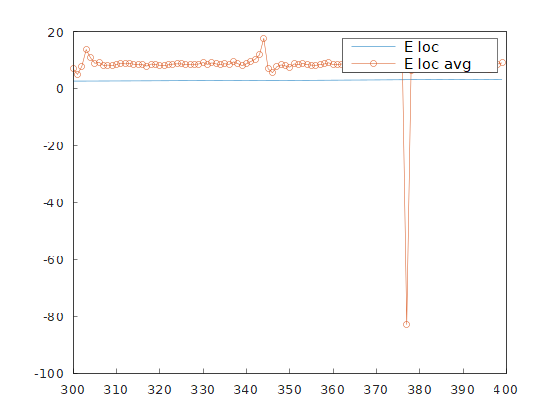
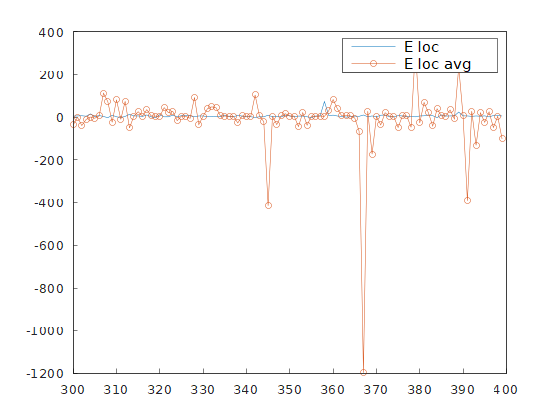
nothign much just random changes

diff --git a/functions/somethingig2.h b/functions/somethingig2.h
@@ -7,6 +7,7 @@
 #include <vector>
 #include <iostream>
 #include <cmath>
+#include <omp.h>
 #include <set>
 #include <complex>
 #include <unordered_map>
@@ -26,7 +27,8 @@ namespace pj
     // defines the paramemeter of the sim
     int col = 1;
     int row = 10;
-    int alpha = 4;
+    int alpha = 2;
+    int hid_node_num = alpha*row;
     long double gama()
     {
         static double gama=1;
@@ -37,13 +39,12 @@ namespace pj
     }
 
     // parameters of the hamil
-    long double h = 1;
+    long double h = 0.5;
     long double j = 1;
     std::random_device rd;
 
     // debuging
     int alpksp = 1;
-    ;
     vector<double> int_n, somevar;
 
     const int dim = pow(2, row);
@@ -54,9 +55,9 @@ namespace pj
         mat b;
         weights()
         {
-            W = arma::randu(alpha, row);
+            W = arma::randu(hid_node_num, row);
             a = arma::randu(row, 1);
-            b = arma::randu(alpha, 1);
+            b = arma::randu(hid_node_num, 1);
         }
         void operator/(double n)
         {
@@ -76,7 +77,7 @@ namespace pj
         void flip(int i)
         {
 
-            S(i % row, 0) = -S(i % row, 0);
+            S(i, 0) = -S(i, 0);
             // std::cout << "flip\n"
             //           << S(i, 0);
         }
@@ -84,7 +85,7 @@ namespace pj
 
     mat theta_matrix(const visible_layer &VL, const weights &w)
     {
-        mat M(alpha, 1);
+        mat M(hid_node_num, 1);
         M = w.b + w.W * VL.S;
         return M;
     }
@@ -127,7 +128,7 @@ namespace pj
         long double cosh_theta = 1;
         mat m = theta_matrix(VL, WEI);
         m.for_each([](auto &m ){m=cosh(m);});
-        for (size_t i = 0; i < alpha; i++)
+        for (size_t i = 0; i < hid_node_num; i++)
         {
             cosh_theta = 2 * cosh_theta * (m(i, 0));
         }
@@ -167,17 +168,15 @@ namespace pj
         visible_layer m = VL;
         for (size_t i = 0; i < row; i++)
         {
-            mat l = m.S;
             m.flip(i);
-            E_loc += VL.S(i % row, 0) * VL.S((i + 1) % row) + h * p_ratio(m, VL, W);
+            E_loc += j*VL.S(i % row, 0) * VL.S((i + 1) % row) + h * p_ratio(m, VL, W);
             m.flip(i);
         }
         bruh(E_loc);
         return E_loc;
     }
 
-    long double E_loc_avg(const visible_layer VL, const weights &W, int itt_no = 1000,
-                          std::random_device &rd = pj::rd)
+    long double E_loc_avg(const visible_layer VL, const weights &W, int itt_no = 1000,std::random_device &rd = pj::rd)
     {
         std::uniform_int_distribution<int> dist_int(0, row - 1);
         std::uniform_real_distribution<long double> dist_real(0, 1);
@@ -206,20 +205,23 @@ namespace pj
         // lamda = (a < pow(10, -4)) ? (pow(10, -4)) : (a);
         mat O, OT_O, OT, O_O, E_OT,
             S, F, a_n, i = arma::eye(row, row);
+
+        visible_layer vl2=vl;
         O = sampler(vl).S.t();               // 1 X row
         OT = sampler(vl).S;                  // row X 1
         O_O = sampler(vl).S;                 // row X 1
         OT_O = (O_O) * (O_O.t());            // row X row
         E_OT = E_loc(vl, w) * sampler(vl).S; // row X 1
-        for (size_t i = 1; i < N; i++)
+        for (size_t j = 1; j < N; j++)
         {
-            O += sampler(vl).S.t();
-            OT += sampler(vl).S;
-            O_O = sampler(vl).S;
+            vl2=sampler(vl2);
+            O += sampler(vl2).S.t();
+            OT += sampler(vl2).S;
+            O_O = sampler(vl2).S;
             OT_O += (O_O) * (O_O.t());
-            E_OT += E_loc(vl, w) * sampler(vl).S;
+            E_OT += E_loc(vl2, w) * sampler(vl2).S;
         }
-        long double e_loc = E_loc_avg(vl, w);
+        long double e_loc = E_loc_avg(vl2, w);
 
         S = (OT_O / N) - ((OT * O / pow(N, 2)));
         S = S - lamda * arma::diagmat(S);
@@ -245,14 +247,15 @@ namespace pj
         visible_layer rough = sampler(vl);
         mat tanh_theta = tanh_matrix(vl, w);
 
-        O = (rough.S * (tanh_theta.t())).t(); // row X 1 * 1 X alpha = row X alpha.t() = alpha X row r
+        O = (rough.S * (tanh_theta.t())).t(); // row X 1 * 1 X hid_node_num = row X hid_node_num.t() = hid_node_num X row r
         OT = (rough.S * (tanh_theta.t()));
-        // row X alpha
+        // row X hid_node_num
         OT_O = ((rough.S * (tanh_theta.t()))) *
                ((rough.S * (tanh_theta.t())).t()); // row X row
         E_OT = E_loc(vl, w) *
-               (rough.S * (tanh_theta.t())); // alpha X row
-        for (size_t i = 1; i < N; i++)
+               (rough.S * (tanh_theta.t())); // hid_node_num X row
+        #pragma omp parallel for
+        for (size_t j = 1; j < N; j++)
         {
             rough = sampler(vl);
             tanh_theta = tanh_matrix(rough, w);
@@ -279,17 +282,17 @@ namespace pj
         a = a * 0.9;
         lamda = (a < pow(10, -4)) ? (pow(10, -4)) : (a);
         mat O, OT_O, OT, O_O, E_OT,
-            S, F, i = arma::eye(alpha, alpha),
+            S, F, i = arma::eye(hid_node_num, hid_node_num),
                   theta = theta_matrix(vl, w);
         visible_layer rough = (vl);
         mat tanh_theta = tanh_matrix(rough, w);
 
-        O = tanh_theta.t();               // 1 X alpha
-        OT = tanh_theta;                  // alpha X 1
-        O_O = tanh_theta;                 // alpha X 1
-        OT_O = (O_O) * (O_O.t());         // alpha X alpha
-        E_OT = E_loc(vl, w) * tanh_theta; // alpha X 1
-        for (size_t i = 1; i < N; i++)
+        O = tanh_theta.t();               // 1 X hid_node_num
+        OT = tanh_theta;                  // hid_node_num X 1
+        O_O = tanh_theta;                 // hid_node_num X 1
+        OT_O = (O_O) * (O_O.t());         // hid_node_num X hid_node_num
+        E_OT = E_loc(vl, w) * tanh_theta; // hid_node_num X 1
+        for (size_t j = 1; j < N; j++)
         {
             rough = sampler(vl);
             tanh_theta = tanh_matrix(rough, w);
@@ -301,7 +304,7 @@ namespace pj
         }
         long double e_loc = E_loc_avg(vl, w);
 
-        S = (OT_O / N) - ((OT * O / (N)*N)); // alpha X alpha
+        S = (OT_O / N) - ((OT * O / (N)*N)); // hid_node_num X hid_node_num
         S = S - lamda * arma::diagmat(S);
         F = (E_OT / N) - e_loc * OT / N;
         double update = arma::norm((arma::pinv(S)) * F);

diff --git a/main.cpp b/main.cpp
@@ -30,74 +30,70 @@ void plot(vector<double> a, vector<double> b, int i)
 	cla();
 }
 
-double avg_cal( const vector<double> & a)
+double avg_cal(const vector<double> &a)
 {
-	double count = static_cast<double> ( a.size());
-	return reduce(a.begin(),a.end())/count;
-
+	double count = static_cast<double>(a.size());
+	return reduce(a.begin(), a.end()) / count;
 }
 int main()
 {
 	std::random_device rd;
 	uniform_int_distribution<int> dist(0, pj::row - 1);
 	auto start = std::chrono::high_resolution_clock::now();
-	
-	number_of_sites =10;
+
+	number_of_sites = 10;
 	hamiltoian_matrix matrix;
 	arma::cx_dmat hamiltonian = matrix.Hamiltonian;
 	// arma::mat vector= arma::zeros(hamiltonian.n_cols,1);
 	// vector(5,0)=1;
 	// cout<<hamiltonian*vector;
-	cout<<"eigen values are :\n"<<matrix.min_eig_value()<<"\n";
-	
+	double min_value = matrix.min_eig_value();
+	cout << "eigen values are :\n"
+		 << matrix.min_eig_value() << "\n";
 
-
-
-
-	
-	pj::row = 10;
 	pj::visible_layer VL, VL2 = VL;
 	pj::weights W;
 
-	double alpha=pj::E_loc_avg(VL, W), beta=0;
-	int gama=0,counting=0;
-	arma::mat a ,b, w;
+	double alpha = pj::E_loc_avg(VL, W), beta = 0;
+	int gama = 0, counting = 0;
+	arma::mat a, b, w;
 	cout << alpha << endl;
-	vector<double> count , energy;
-	
+	vector<double> count, energy;
+
 	VL = VL2;
 	for (size_t j = 0; j < 10; j++)
 	{
 		vector<double> e_loc, e_loc_avg, n;
-		for(size_t i = 0; i < pow(10,2); i++)
+		for (size_t i = 0; i < 3000; i++)
 		{
-			a= pj::a_update(VL, W);
-			w=pj::w_update(VL,W);
-			b=pj::b_update(VL,W);
-			W.a=a;
-			W.b=b;
-			W.W=w;
-			
+			pj::visible_layer vl;
+
+			a = pj::a_update(VL, W);
+			w = pj::w_update(VL, W);
+			b = pj::b_update(VL, W);
+			W.a = a;
+			W.b = b;
+			W.W = w;
+			cout<<"i = "<<i<<"\t j= "<<j<<"\n";
 			// cout<<"w=\n"<<W.W<<"\n";
 			// cout<<"b=\n"<<W.b<<"\n";
-			e_loc.push_back(pj::E_loc(VL,W));
-			e_loc_avg.push_back(pj::E_loc_avg(VL,W));
+			e_loc.push_back(pj::E_loc(vl, W));
+			e_loc_avg.push_back(pj::E_loc_avg(VL, W));
 			n.push_back(gama);
 			gama++;
+			// VL.flip(dist(rd));
 			// cout<<gama<<"\n";
 		}
-		for (size_t i = 0; i < 10; i++)
-		{
-			VL.flip(dist(rd));
-		}
+		VL.flip(dist(rd));
 		counting++;
 		energy.push_back(avg_cal(e_loc_avg));
 		count.push_back(counting);
 
-
-		plot(n,e_loc,e_loc_avg,j);
+		plot(n, e_loc, e_loc_avg, j);
 	}
 	plot(count, energy, 999);
+	cout << "the vergaee energy diff is = " << abs(abs(min_value) - abs(avg_cal(energy)))<<"\n";
+	cout<<avg_cal(energy);
 
 	auto end = std::chrono::high_resolution_clock::now();
 	auto elapsed = end - start;
